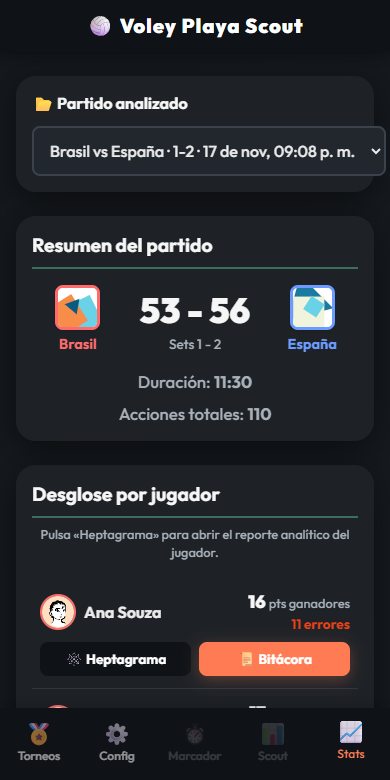
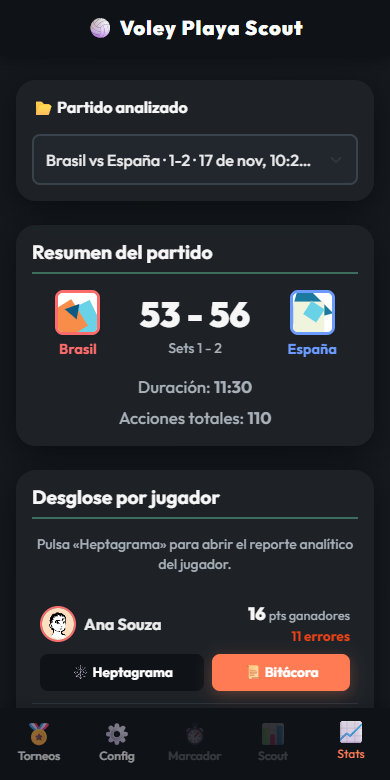
📚 docs: documentar la arquitectura Bootstrap + BEM
Tras migrar los estilos a Bootstrap 5.3, la documentación seguía describiendo un
CSS 100 % BEM y las capturas mostraban la interfaz anterior.

- CLAUDE.md: stack y externos, árbol de css/ con bootstrap-theme.css, patrón
  "puente de tema" y nueva convención "Bootstrap primero, BEM para lo demás"
  (qué resuelve cada uno, por qué no se usa .modal ni el JS de Bootstrap,
  doble data-theme/data-bs-theme y la trampa de .vstack). Deuda: Bootstrap por
  CDN implica perder los estilos sin conexión.
- README.md: badge de Bootstrap 5.3.9, estructura de css/, convención de CSS,
  receta de temas y jsDelivr en el apartado de servicios externos.
- docs/screenshots: capturas regeneradas con la interfaz actual.

diff --git a/CLAUDE.md b/CLAUDE.md
@@ -17,8 +17,8 @@ Una **SPA 100 % frontend** para entrenadores y analistas de voley playa 2 vs 2:
 
 | Aspecto | Detalle |
 |---|---|
-| Stack | HTML5 + CSS3 (BEM) + JavaScript vanilla (ES2020), **sin build ni dependencias** |
-| Externos | `html2pdf.js 0.10.1` (CDN) · Google Fonts *Outfit* · API **DiceBear** (avatares SVG) |
+| Stack | HTML5 + **Bootstrap 5.3.9** (sólo CSS) + CSS propio con BEM + JavaScript vanilla (ES2020), **sin build** |
+| Externos | Bootstrap 5.3.9 (jsDelivr + SRI) · `html2pdf.js 0.10.1` (CDN) · Google Fonts *Outfit* · API **DiceBear** (avatares SVG) |
 | Ejecutar | Abrir `index.html` en el navegador (funciona con `file://`) |
 | Tests | `npm test` → `node --test` (Node ≥ 18, sin instalar nada) |
 
@@ -30,12 +30,13 @@ Una **SPA 100 % frontend** para entrenadores y analistas de voley playa 2 vs 2:
 voley playa/
 ├── index.html                 Vistas, modales (<dialog>), plantillas y carga de scripts
 ├── package.json               Sólo el script "test"
-├── css/                       BEM, de lo genérico a lo específico (el orden de carga importa)
+├── css/                       Se cargan DESPUÉS de bootstrap.min.css (el orden importa)
 │   ├── tokens.css             Variables de diseño + temas (classic / dark / high-contrast)
-│   ├── base.css               Reset, elementos HTML, [hidden], accesibilidad, keyframes
+│   ├── bootstrap-theme.css    Puente: tokens → variables --bs-* (btn, card, form, table, nav…)
+│   ├── base.css               Fondo, márgenes de Reboot, accesibilidad, keyframes
 │   ├── layout.css             app-header, app-main, view, bottom-nav
-│   ├── components.css         btn, card, panel, form-field, modal, tabs, pill, choice,
-│   │                          avatar, data-table, kpi, zone-bar, toast, callout, spinner…
+│   ├── components.css         Modificadores BEM de Bootstrap (btn--pulse, card--glass…) y
+│   │                          bloques propios: app-dialog, avatar, kpi, zone-bar, toast-stack…
 │   ├── court.css              court, court-zone, court-marker, heat-dot, legend
 │   ├── tournaments.css        tournament-card, team-row, match-card, bracket, manual-set
 │   ├── match.css              team-form, sets-tracker, match-clock, scoreboard,
@@ -149,6 +150,7 @@ flowchart TB
 | **`<dialog>` nativo** | Todos los modales | Foco atrapado, Escape, backdrop y apilado gratis. |
 | **Popover API** | toasts y callouts | Para pintarse **encima** de los `<dialog>` (top layer). |
 | **Plantillas `<template>`** | Fila de dupla | Marcado declarativo en HTML, clonado con JS. |
+| **Puente de tema** | `css/bootstrap-theme.css` | Bootstrap se personaliza reasignando sus variables `--bs-*` a nuestros tokens: sin Sass, sin tocar su CSS y con los 3 temas funcionando. |
 | **Constantes centralizadas** | `constants.js` | Añadir un gesto técnico o cambiar una regla en un solo sitio. |
 
 ---
@@ -352,17 +354,34 @@ flowchart LR
 
 ## 7. Convenciones de código
 
-### CSS — BEM
+### CSS — Bootstrap 5.3 + BEM
+
+**Regla:** si Bootstrap lo resuelve, se usa Bootstrap; lo que no cubre, se escribe con BEM.
+
+| Necesidad | Se resuelve con |
+|---|---|
+| Rejilla, espaciado, flex, tipografía, visibilidad | Utilidades de Bootstrap: `row`, `col-*`, `g-*`, `vstack`, `gap-*`, `d-flex`, `text-body-secondary`, `d-none d-sm-table-cell`… |
+| Botones, tarjetas, formularios, tablas, pestañas, barras, avisos, badges | Componentes de Bootstrap: `btn btn-primary`, `card`, `form-control`, `form-select`, `btn-check`, `table`, `nav-underline`, `progress`, `toast`, `badge`, `alert`, `btn-close`, `spinner-border` |
+| Identidad visual (naranja, arena, radios, sombras) | `css/bootstrap-theme.css`: reasigna las variables `--bs-*` a nuestros tokens. **Nunca** editar `bootstrap.min.css` |
+| Variante de un componente de Bootstrap | Modificador BEM sobre su bloque: `btn--pulse`, `btn--dashed`, `btn--team-a`, `card--glass`, `card--narrow`, `progress--thin`, `toast--success` |
+| Piezas del dominio | Bloques BEM propios: `court`, `heat-dot`, `scoreboard`, `match-card`, `bracket`, `reception`, `versus`, `live-board`… |
 
 ```
-.bloque              → componente independiente           .match-card
+.bloque              → componente propio                   .match-card
 .bloque__elemento    → parte interna                       .match-card__team-name
 .bloque--modificador → variante / estado                   .match-card--finished
 ```
 
-- Una sola clase por selector (especificidad plana). Nada de `#id` ni etiquetas fuera de `base.css`.
-- Los modificadores van **junto** a la clase base: `class="btn btn--danger btn--small"`.
-- **Mix** permitido cuando un nodo es dos bloques: `class="card filters"`.
+- **Modales:** no se usa `.modal` de Bootstrap (requiere su JS). Los diálogos son `<dialog>` nativos con el
+  bloque BEM `app-dialog`, que ya trae foco atrapado, Escape y apilado. Tampoco se carga `bootstrap.bundle.js`.
+- **Tema oscuro:** `config-view.applyTheme()` pone `data-theme` (nuestros tokens) y `data-bs-theme`
+  (modo de color nativo de Bootstrap) en el `<body>`.
+- **Estados de JS:** se usan las clases de estado de Bootstrap (`.active`, `.show`) o modificadores BEM
+  (`view--active`, `reception__grade--active`).
+- **Ojo con `.vstack`:** además de `display:flex` fuerza `align-self: stretch`; un bloque que deba quedar
+  centrado dentro de la vista necesita `align-self: center` en su CSS (ver `.scout`).
+- Una sola clase por selector en el CSS propio (especificidad plana). Nada de `#id`.
+- **Mix** permitido cuando un nodo es dos bloques: `class="card card--glass filters"`.
 - Colores siempre con **tokens** (`var(--color-surface)`), nunca valores fijos en componentes → los 3 temas funcionan en toda la app.
 - Mostrar/ocultar con el atributo HTML `hidden` (gana siempre gracias a `[hidden]{display:none!important}`).
 - **Cero estilos inline** en el HTML. Sólo JS asigna `left/top/width` dinámicos.
@@ -396,7 +415,7 @@ Además, durante el desarrollo se usó una prueba end-to-end con Chrome headless
 | Puntos de clasificación Round Robin | `STANDING_POINTS` en `constants.js` |
 | Nuevo formato de torneo | `core/tournament-engine.js` (+ tests) y `views/tournaments-view.js` |
 | Nueva métrica del jugador | `computePlayerProfile` en `core/stats-engine.js` → `player-dashboard.js` → `exporters.js` |
-| Nuevo tema | Bloque `[data-theme="…"]` en `css/tokens.css` + opción en el `theme-picker` de `index.html` |
+| Nuevo tema | Bloque `[data-theme="…"]` en `css/tokens.css` + opción en el `theme-picker` de `index.html`; si es oscuro, `data-bs-theme="dark"` en `applyTheme()` |
 | Nueva vista | `<section class="view">` + botón `bottom-nav__item[data-view]` + `VP.router.register()` en su archivo de vista |
 | Cambiar persistencia (p. ej. backend) | Sólo `js/services/storage.js` |
 
@@ -408,4 +427,4 @@ Además, durante el desarrollo se usó una prueba end-to-end con Chrome headless
 
 **Funcionalidades nuevas:** clasificación Round Robin · campeón y barra de progreso · nombres de ronda en las llaves · historial de partidos en Estadísticas · copia de seguridad · avisos no bloqueantes y diálogos accesibles · atajos de teclado en Marcador Vivo · indicador de saque en Scout · avisos de fin de set y cambio de lado también en Scout · cronómetro que arranca con el primer punto · timeouts visibles en la bitácora · filtros con nombres de jugadores · botón «Limpiar filtros» · jugadores de cada dupla guardados en el torneo.
 
-**Deuda técnica pendiente:** las vistas aún generan HTML con template strings (un micro-framework de componentes sería el siguiente paso) · no hay tests automáticos de UI dentro del repo · los avatares dependen de un servicio externo (DiceBear) y no funcionan sin conexión.
+**Deuda técnica pendiente:** las vistas aún generan HTML con template strings (un micro-framework de componentes sería el siguiente paso) · no hay tests automáticos de UI dentro del repo · los avatares dependen de un servicio externo (DiceBear) y no funcionan sin conexión · Bootstrap se carga por CDN: sin conexión la app pierde los estilos (para una PWA conviene copiarlo a `vendor/`).
